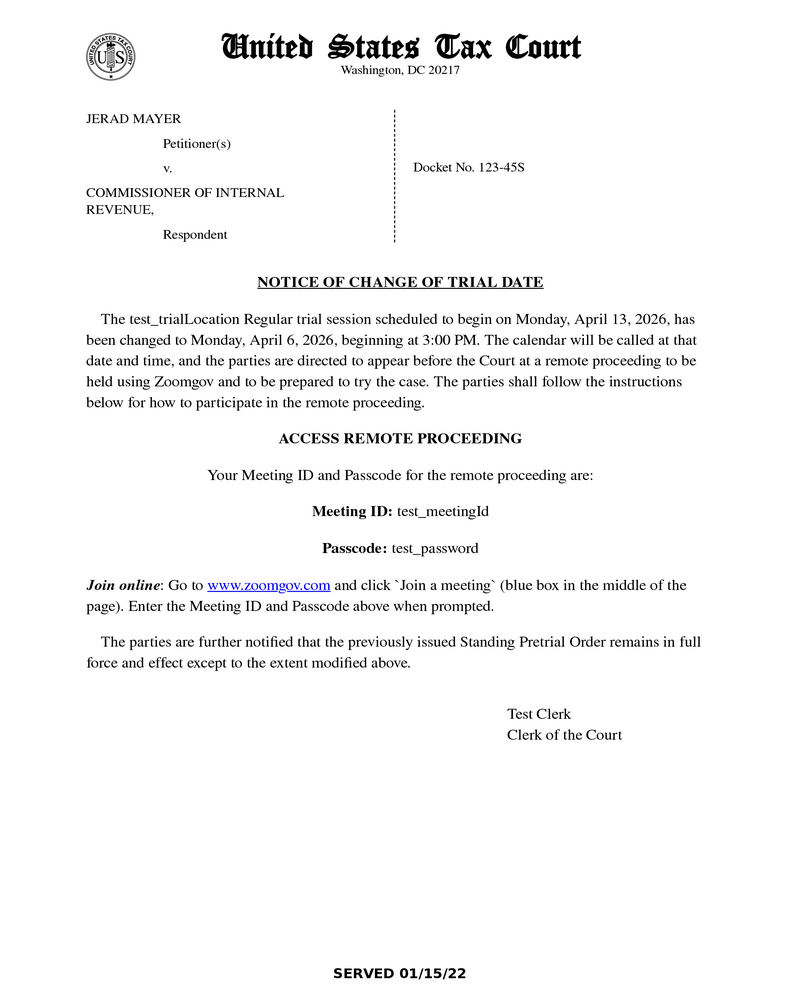
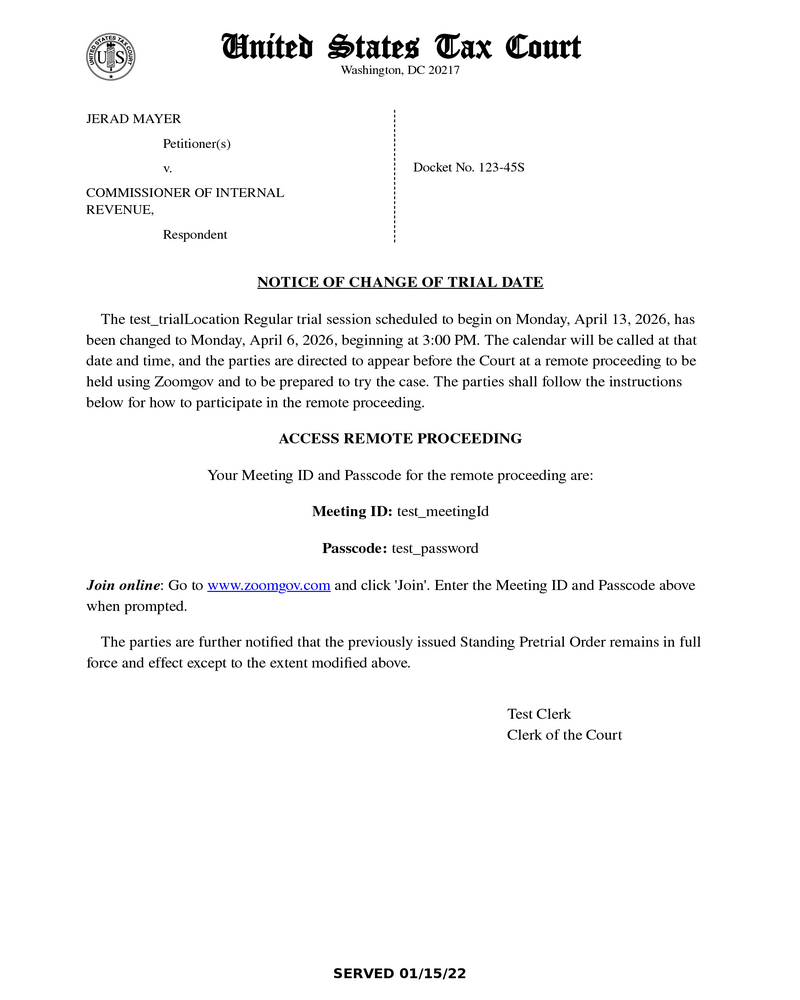
8465: Updated text of notices

Changed region(s): [[0.0938, 0.558, 0.875, 0.62]]

diff --git a/shared/src/business/utilities/pdfGenerator/documentTemplates/NoticeOfChangeOfTrialStartDate.tsx b/shared/src/business/utilities/pdfGenerator/documentTemplates/NoticeOfChangeOfTrialStartDate.tsx
@@ -107,7 +107,7 @@ function NoticeOfChangeRemote({
         <a href="https://www.zoomgov.com" rel="noreferrer" target="_blank">
           www.zoomgov.com
         </a>{' '}
-        and click `Join a meeting` (blue box in the middle of the page). Enter
+        and click &apos;Join&apos;. Enter
         the Meeting ID and Passcode above when prompted.
       </p>
     </div>
@@ -140,9 +140,9 @@ function NoticeOfChangeInPerson({
         The calendar will be called at that date and time, and the parties are
         expected to be present and to be prepared to try the case. The trial
         session will be held at {updatedTrialSession.courthouseName},{' '}
-        {updatedTrialSession.address1}{' '}
-        {updatedTrialSession.address2 ? `${updatedTrialSession.address2} ` : ''}
-        {updatedTrialSession.city} {updatedTrialSession.state}{' '}
+        {updatedTrialSession.address1},{' '}
+        {updatedTrialSession.address2 ? `${updatedTrialSession.address2}, ` : ''}
+        {updatedTrialSession.city}, {updatedTrialSession.state}{' '}
         {updatedTrialSession.postalCode}.
       </p>
     </div>

diff --git a/shared/src/business/utilities/documentGenerators/jest_document_generator.config.ts b/shared/src/business/utilities/documentGenerators/jest_document_generator.config.ts
@@ -16,7 +16,7 @@ const config: Config = {
     '^uuid$': 'uuid',
   },
   testMatch: [
-    '**/shared/src/business/utilities/documentGenerators/(*.)+(spec|test).[jt]s',
+    '**/shared/src/business/utilities/documentGenerators/noticeOfChangeOfTrialStartDate.test.ts',
   ],
   testTimeout: 30000,
   transform: {
